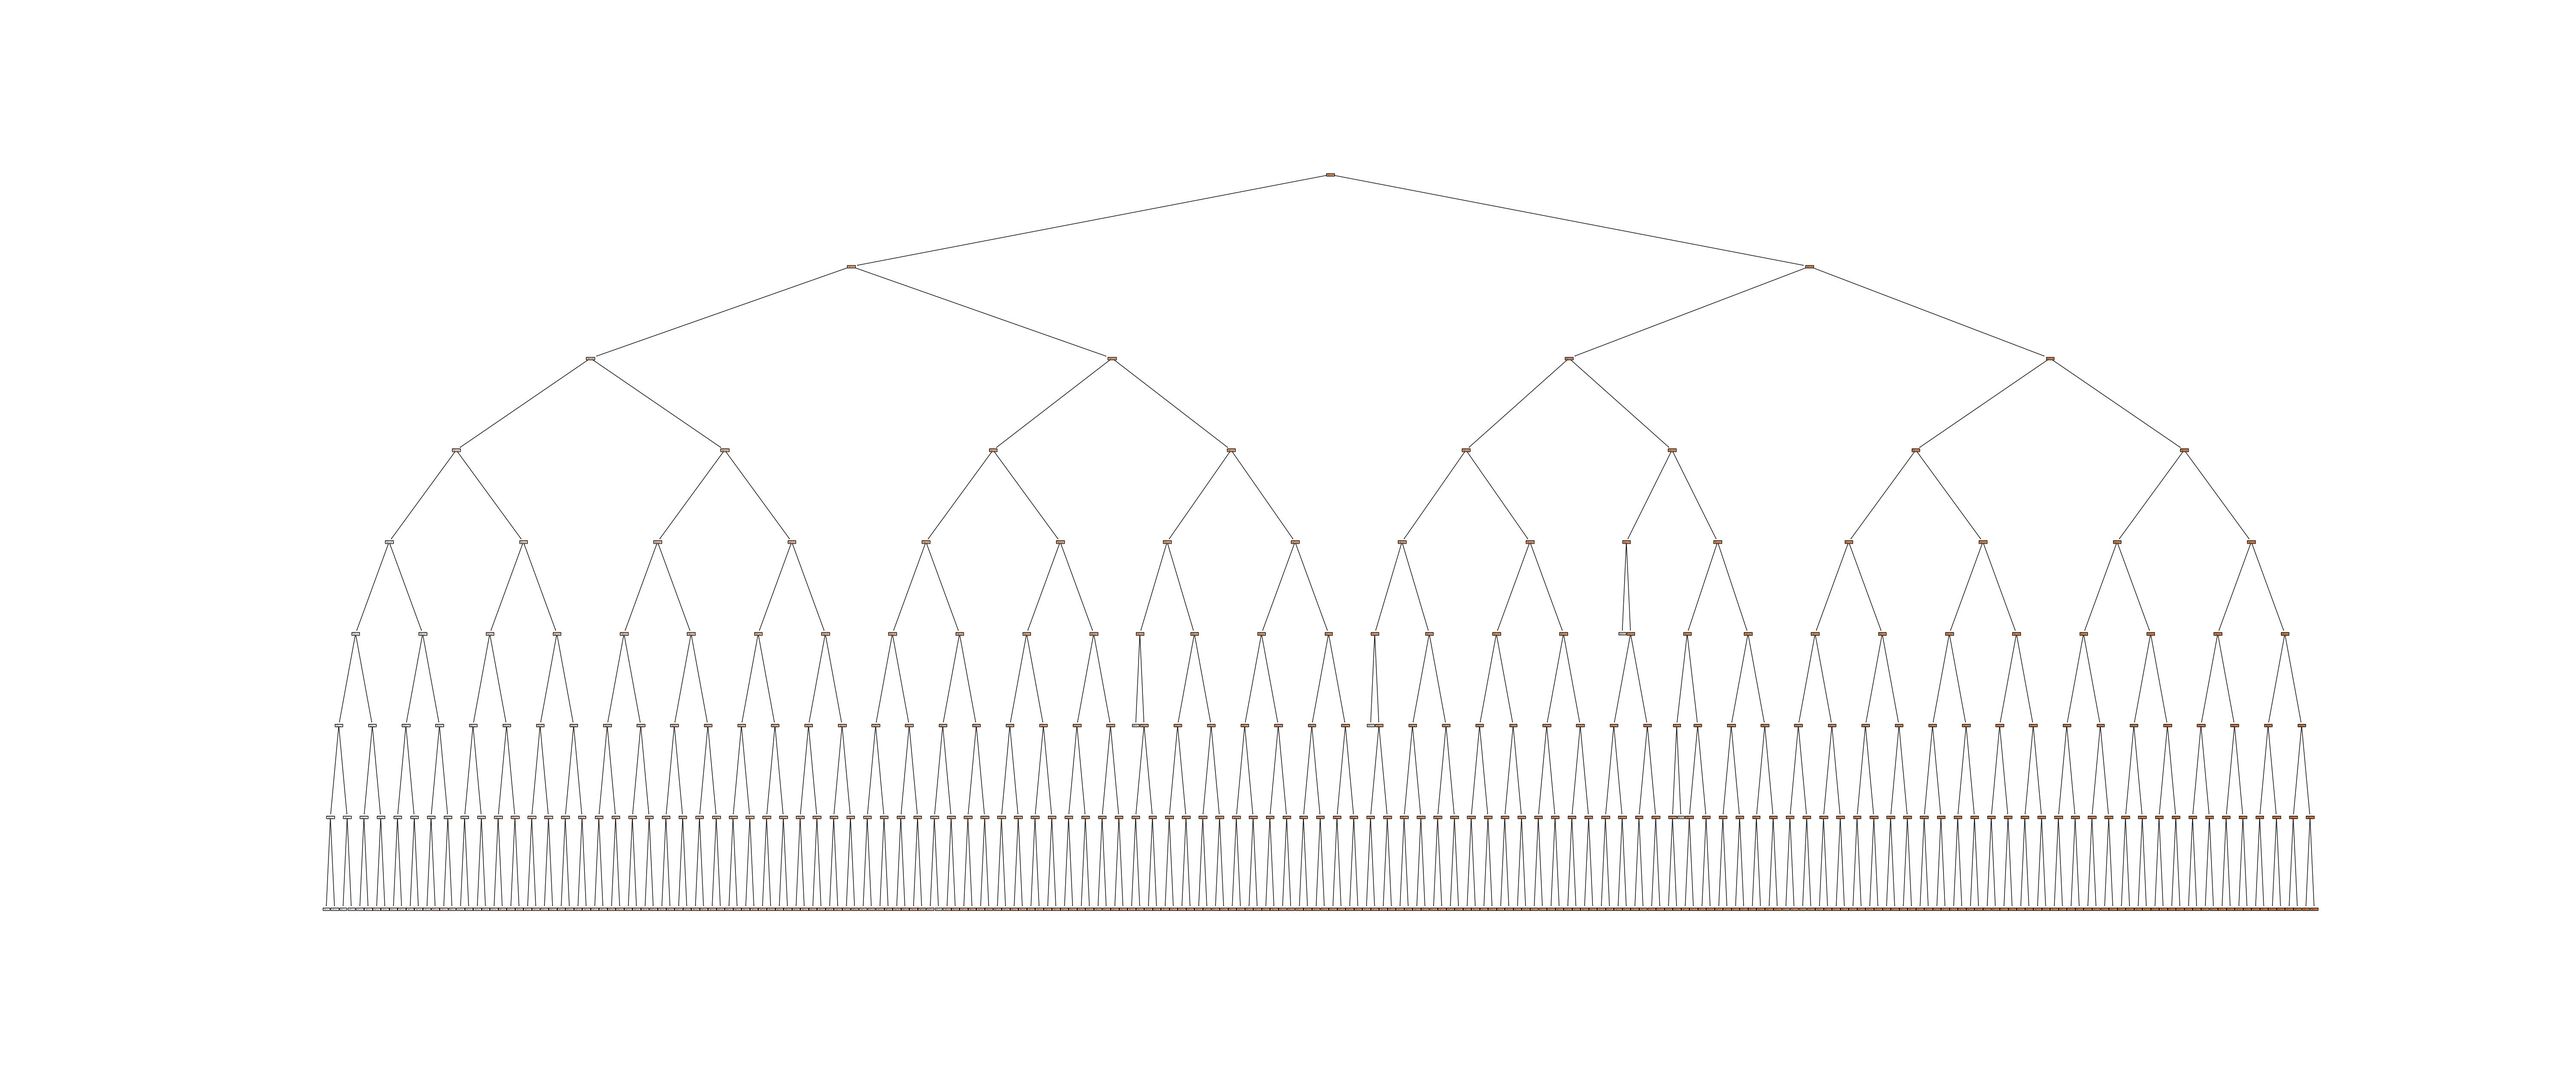
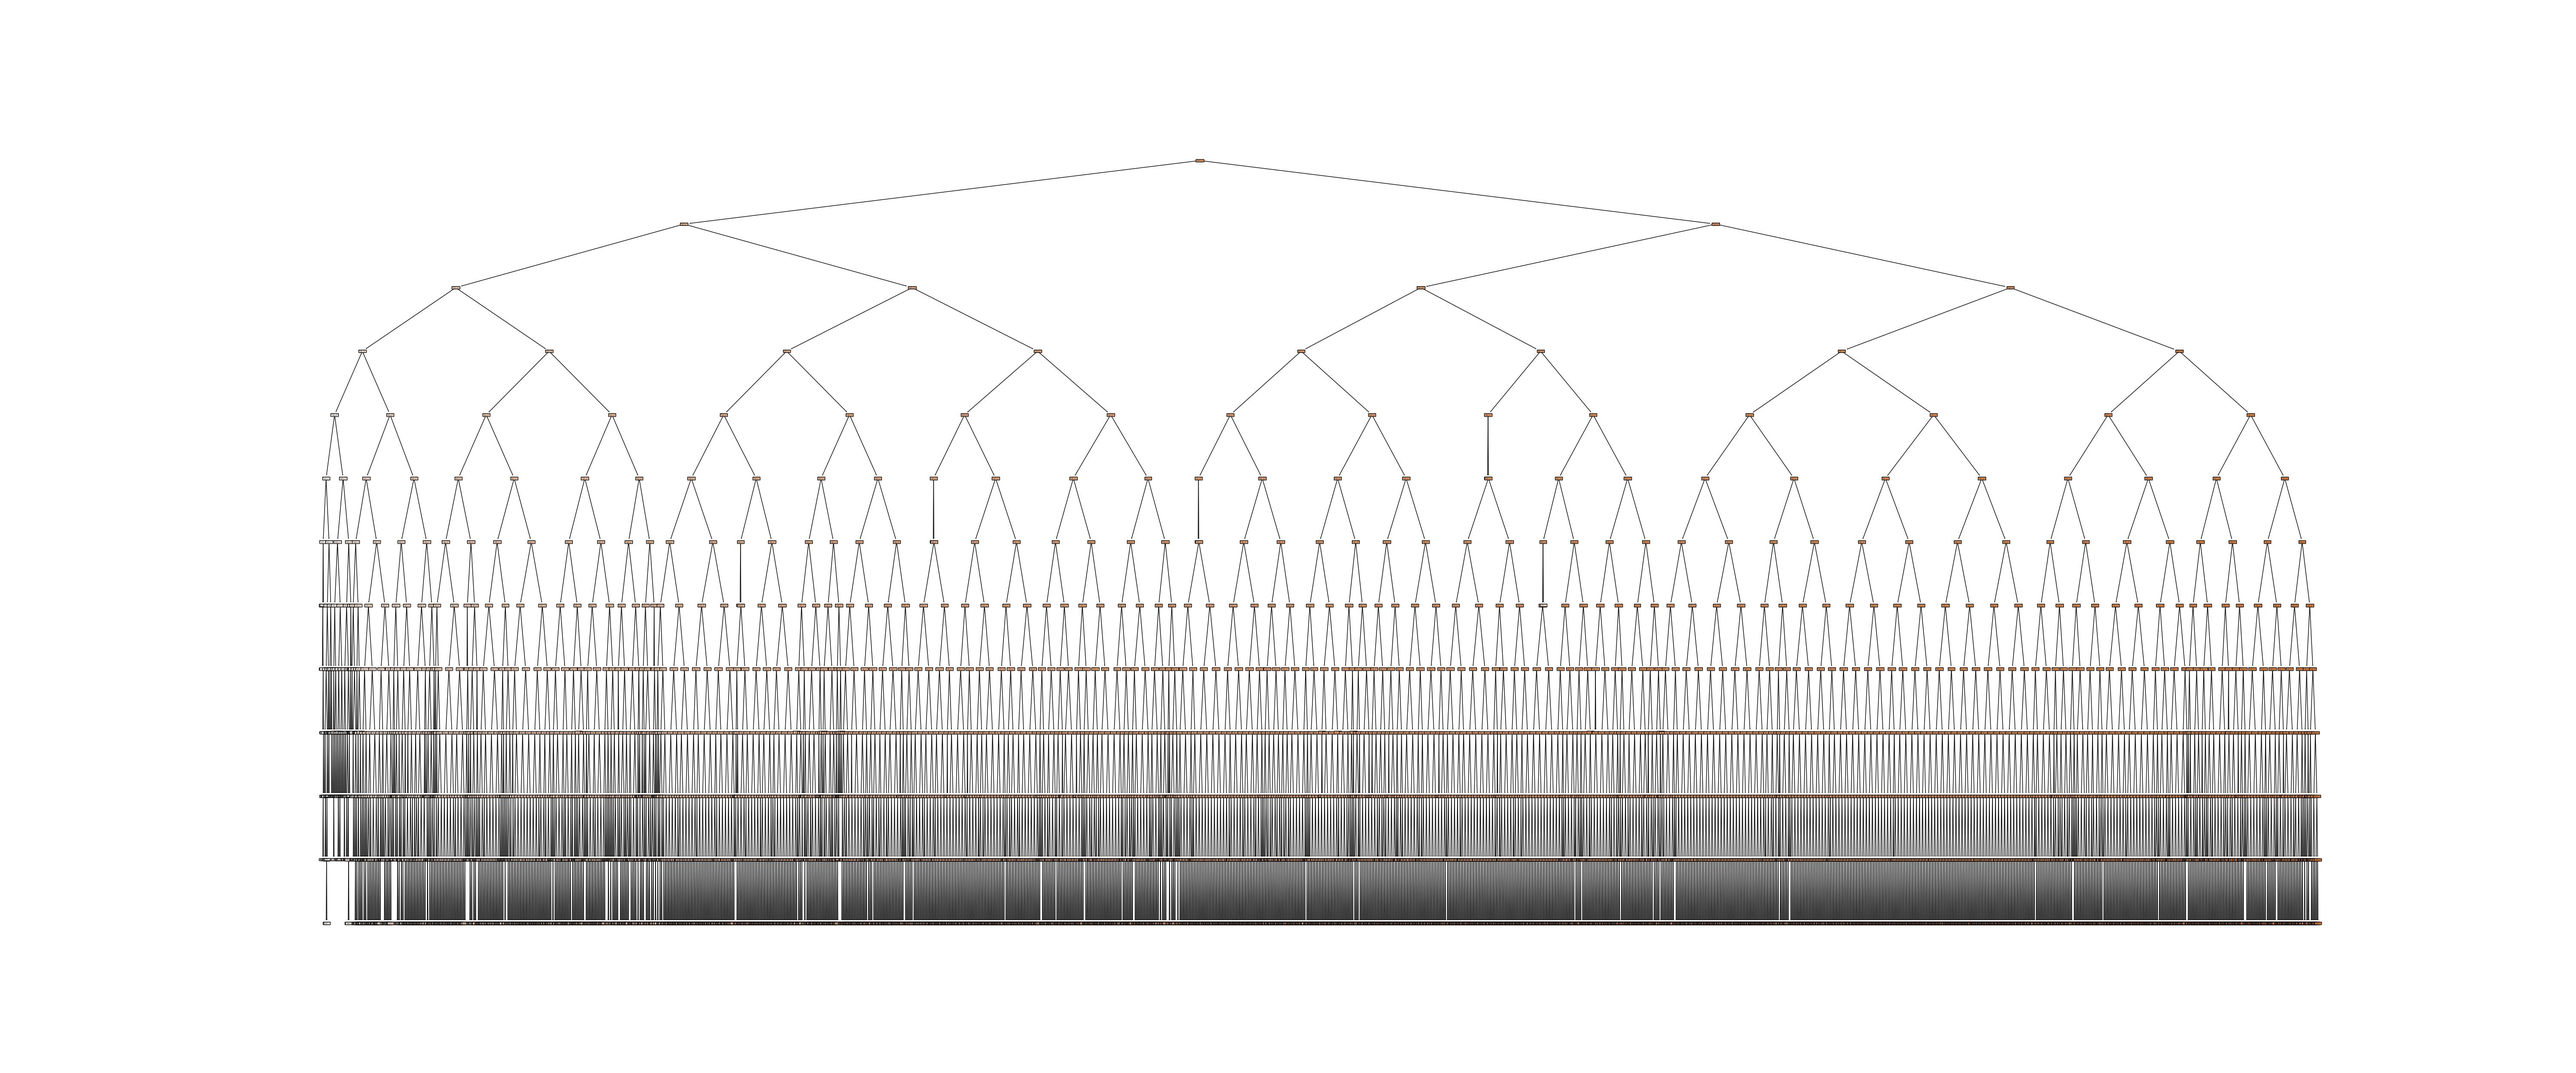
Исправления ошибки деревьев

diff --git a/Shakin/decision_tree_full.py b/Shakin/decision_tree_full.py
@@ -15,9 +15,9 @@ TREES_MODELS_MAPPER = {'DecisionTree': tree.DecisionTreeRegressor,
 
 # Set the best parameters that you get on training stage for all used models
 TREES_MODELS_BEST_PARAMETERS = {
-    'DecisionTree': {'max_depth': 8, 'min_samples_leaf': 1, 'min_samples_split': 2, 'splitter': 'best'},
-    'RandomForest': {'max_depth': 8, 'min_samples_leaf': 1, 'min_samples_split': 4, 'n_estimators': 10},
-    'ExtraTree': {'max_depth': 8, 'min_samples_leaf': 2, 'min_samples_split': 4, 'n_estimators': 20}}
+    'DecisionTree': {'max_depth': 12, 'min_samples_leaf': 1, 'min_samples_split': 3, 'splitter': 'best'},
+    'RandomForest': {'max_depth': 12, 'min_samples_leaf': 1, 'min_samples_split': 2, 'n_estimators': 20},
+    'ExtraTree': {'max_depth': 16, 'min_samples_leaf': 1, 'min_samples_split': 2, 'n_estimators': 20}}
 
 
 def parser_args_for_sac():
